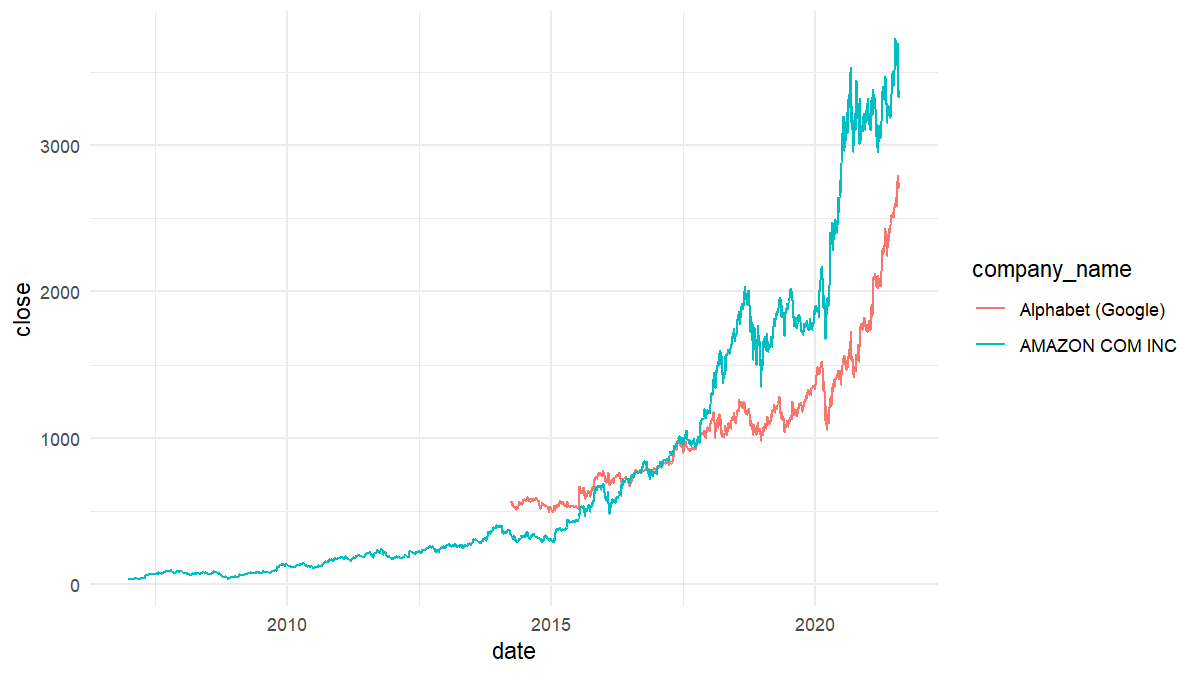
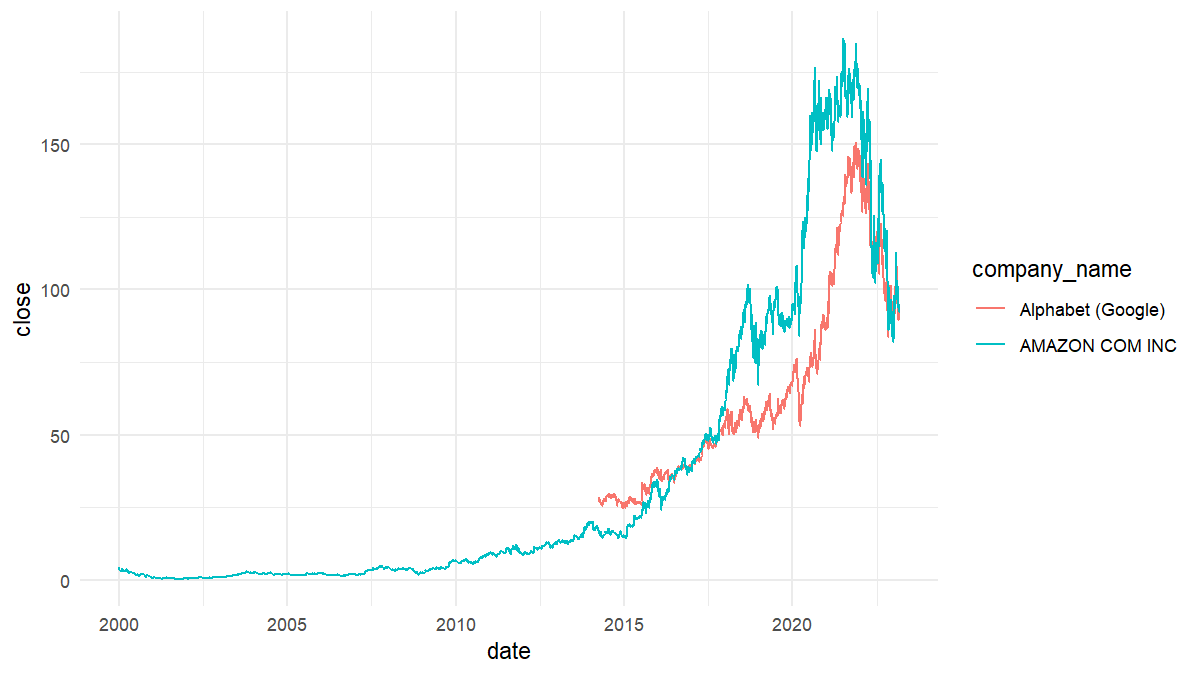
documentation updated

diff --git a/README.md b/README.md
@@ -6,15 +6,15 @@
 release](https://www.r-pkg.org/badges/version/simfinapi)](https://CRAN.R-project.org/package=simfinapi)
 [![Status](https://www.repostatus.org/badges/latest/active.svg)](https://www.repostatus.org/#active)
 [![R-CMD-check](https://github.com/matthiasgomolka/simfinapi/workflows/R-CMD-check/badge.svg)](https://github.com/matthiasgomolka/simfinapi/actions)
-[![](https://codecov.io/gh/matthiasgomolka/simfinapi/branch/main/graph/badge.svg)](https://codecov.io/gh/matthiasgomolka/simfinapi)
+[![](https://codecov.io/gh/matthiasgomolka/simfinapi/branch/main/graph/badge.svg)](https://app.codecov.io/gh/matthiasgomolka/simfinapi)
 [![Dependencies](https://tinyverse.netlify.com/badge/simfinapi)](https://cran.r-project.org/package=simfinapi)
 
 ## What does simfinapi do?
 
-simfinapi wraps the <https://simfin.com/> Web-API to make ‘SimFin’ data
+simfinapi wraps the <https://www.simfin.com/> Web-API to make ‘SimFin’ data
 easily available in R.
 
-*To use the package, you need to register at <https://simfin.com/login>
+*To use the package, you need to register at <https://app.simfin.com/login>
 and obtain a ‘SimFin’ API key.*
 
 ## Example
@@ -24,7 +24,9 @@ simple plot.
 
 ``` r
 # load package
-library(simfinapi)
+# library(simfinapi)
+devtools::load_all()
+#> ℹ Loading simfinapi
 
 # download stock price data
 tickers <- c("AMZN", "GOOG") # Amazon, Google
@@ -36,14 +38,14 @@ Please note that all functions in simfinapi start with the prefix
 
 The downloaded data looks like this:
 
-| simfin\_id | ticker | date       | currency |  open |  high |   low | close | adj\_close |   volume | dividend | common\_shares\_outstanding |
-|-----------:|:-------|:-----------|:---------|------:|------:|------:|------:|-----------:|---------:|---------:|----------------------------:|
-|      62747 | AMZN   | 2007-01-03 | USD      | 38.68 | 39.06 | 38.05 | 38.70 |      38.70 | 12405100 |       NA |                          NA |
-|      62747 | AMZN   | 2007-01-04 | USD      | 38.59 | 39.14 | 38.26 | 38.90 |      38.90 |  6318400 |       NA |                          NA |
-|      62747 | AMZN   | 2007-01-05 | USD      | 38.72 | 38.79 | 37.60 | 38.37 |      38.37 |  6619700 |       NA |                          NA |
-|      62747 | AMZN   | 2007-01-08 | USD      | 38.22 | 38.31 | 37.17 | 37.50 |      37.50 |  6783000 |       NA |                          NA |
-|      62747 | AMZN   | 2007-01-09 | USD      | 37.60 | 38.06 | 37.34 | 37.78 |      37.78 |  5703000 |       NA |                          NA |
-|      62747 | AMZN   | 2007-01-10 | USD      | 37.49 | 37.70 | 37.07 | 37.15 |      37.15 |  6527500 |       NA |                          NA |
+| simfin_id | ticker | date       | currency | open | high |  low | close | adj_close |    volume | dividend | common_shares_outstanding |
+|----------:|:-------|:-----------|:---------|-----:|-----:|-----:|------:|----------:|----------:|---------:|--------------------------:|
+|     62747 | AMZN   | 2000-01-03 | USD      | 4.08 | 4.48 | 4.00 |  4.47 |      4.47 | 322352000 |       NA |                        NA |
+|     62747 | AMZN   | 2000-01-04 | USD      | 4.27 | 4.58 | 4.09 |  4.10 |      4.10 | 349748000 |       NA |                        NA |
+|     62747 | AMZN   | 2000-01-05 | USD      | 3.54 | 3.76 | 3.48 |  3.59 |      3.59 | 769148000 |       NA |                        NA |
+|     62747 | AMZN   | 2000-01-06 | USD      | 3.57 | 3.63 | 3.20 |  3.28 |      3.28 | 375040000 |       NA |                        NA |
+|     62747 | AMZN   | 2000-01-07 | USD      | 3.35 | 3.52 | 3.31 |  3.48 |      3.48 | 210108000 |       NA |                        NA |
+|     62747 | AMZN   | 2000-01-10 | USD      | 3.63 | 3.63 | 3.28 |  3.46 |      3.46 | 295158000 |       NA |                        NA |
 
 Let’s turn that into a simple plot.
 
@@ -69,10 +71,10 @@ company_info <- sfa_get_info(tickers)
 
 `company_info` contains these information:
 
-| simfin\_id | ticker | company\_name     | industry\_id | month\_fy\_end | number\_employees | business\_summary                                                                                                                                                                                                                                               |
-|-----------:|:-------|:------------------|-------------:|---------------:|------------------:|:----------------------------------------------------------------------------------------------------------------------------------------------------------------------------------------------------------------------------------------------------------------|
-|      62747 | AMZN   | AMAZON COM INC    |       103002 |             12 |           1298000 | Amazon.com Inc is an online retailer. The Company sells its products through the website which provides services, such as advertising services and co-branded credit card agreements. It also offers electronic devices like Kindle e-readers and Fire tablets. |
-|         18 | GOOG   | Alphabet (Google) |       101002 |             12 |            135301 | Alphabet (formerly known as Google) offers a variety of IT services to individuals and corporations alike. Their main revenues come from online advertising.                                                                                                    |
+| simfin_id | ticker | company_name      | industry_id | month_fy_end | number_employees | business_summary                                                                                                                                                                                                                                                |
+|----------:|:-------|:------------------|------------:|-------------:|-----------------:|:----------------------------------------------------------------------------------------------------------------------------------------------------------------------------------------------------------------------------------------------------------------|
+|     62747 | AMZN   | AMAZON COM INC    |      103002 |           12 |          1298000 | Amazon.com Inc is an online retailer. The Company sells its products through the website which provides services, such as advertising services and co-branded credit card agreements. It also offers electronic devices like Kindle e-readers and Fire tablets. |
+|        18 | GOOG   | Alphabet (Google) |      101002 |           12 |           135301 | Alphabet (formerly known as Google) offers a variety of IT services to individuals and corporations alike. Their main revenues come from online advertising.                                                                                                    |
 
 Now we merge both datasets and recreate the plot with the actual company
 names.
@@ -108,7 +110,7 @@ remotes::install_github("https://github.com/matthiasgomolka/simfinapi")
 ## Setup
 
 Using simfinapi is much more convenient if you set your API key and
-cache directory[1] globally before you start downloading data. See
+cache directory[^1] globally before you start downloading data. See
 `?sfa_set_api_key` and `?sfa_set_cache_dir` for details.
 
 ## Code of Conduct
@@ -129,7 +131,8 @@ issue](https://github.com/matthiasgomolka/simfinapi/issues/22#issuecomment-84727
 
 ------------------------------------------------------------------------
 
-[1] simfinapi always caches the results from your API calls to obtain
-results quicker and to reduce the number of API calls. If you set the
-cache directory to a permanent directory (the default is `tempdir()`),
-simfinapi will be able to reuse this cache in subsequent R sessions.
+[^1]: simfinapi always caches the results from your API calls to obtain
+    results quicker and to reduce the number of API calls. If you set
+    the cache directory to a permanent directory (the default is
+    `tempdir()`), simfinapi will be able to reuse this cache in
+    subsequent R sessions.
